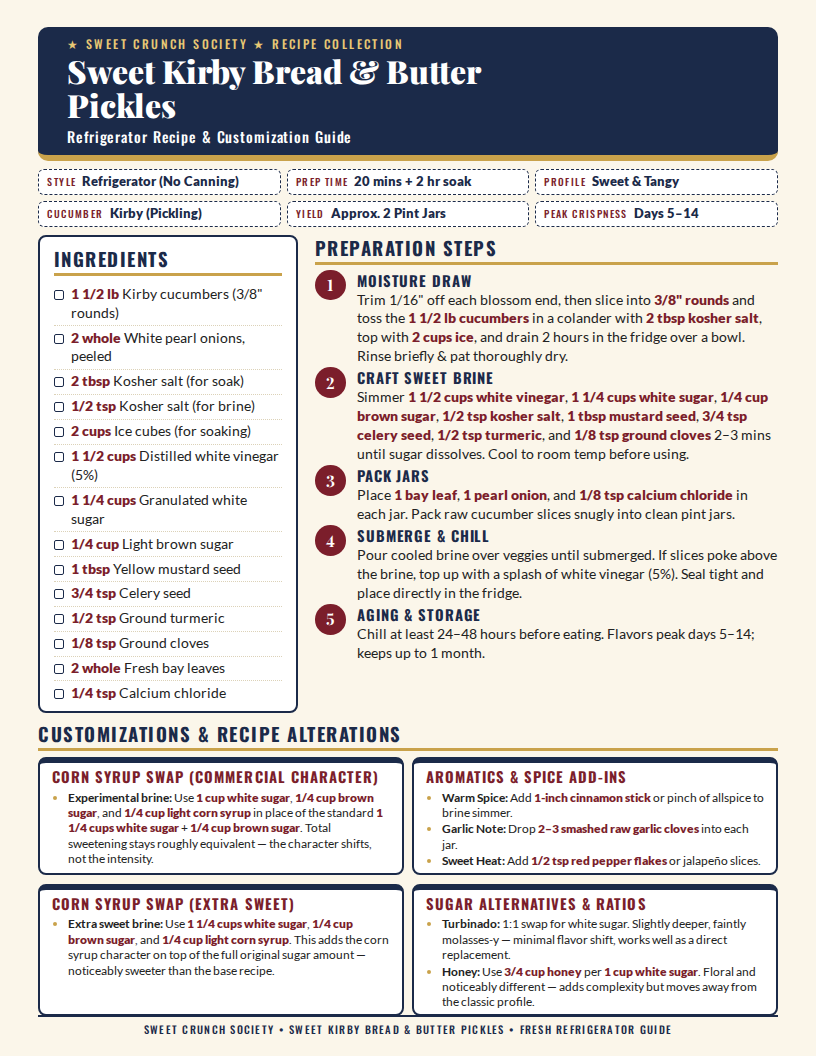
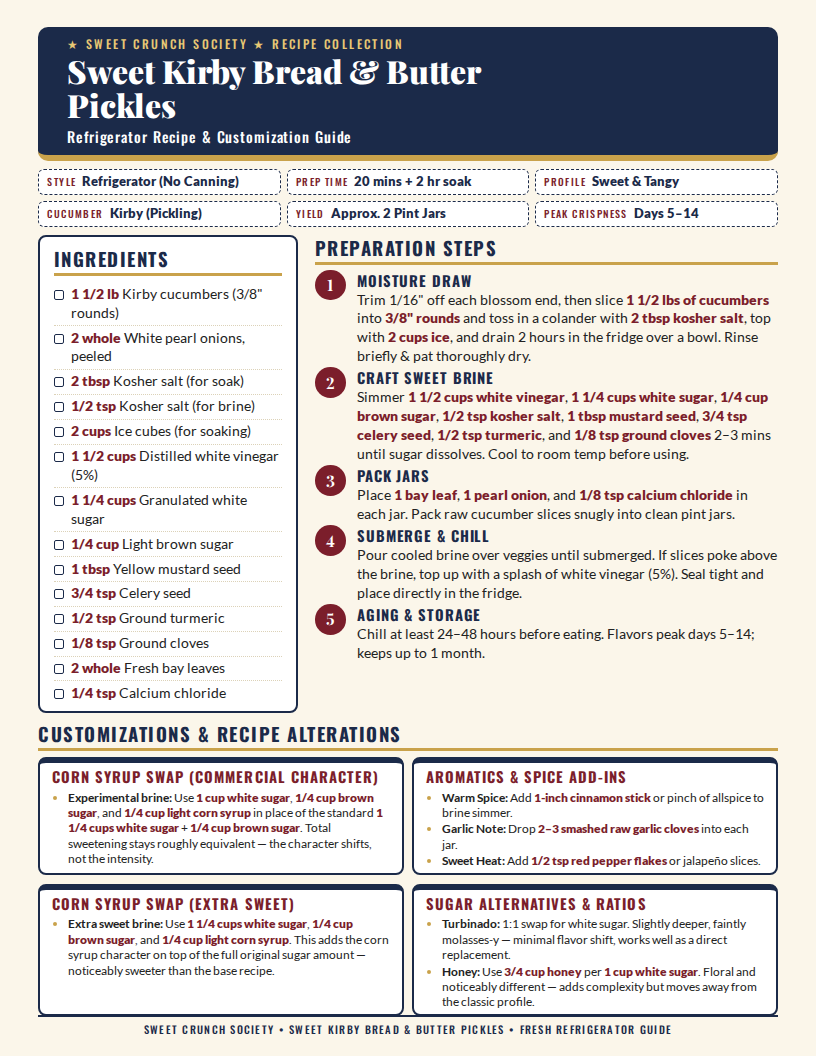
docs: put cucumber amount before cut size in Moisture Draw step
Reworded step 1 to "slice 1 1/2 lbs of cucumbers into 3/8" rounds" so the
amount is stated first, followed by the cut size. Regenerated
docs/preview.png to match; layout still fits the letter sheet.

Changed region(s): [[0.4289, 0.2812, 0.9498, 0.3438]]

diff --git a/index.html b/index.html
@@ -162,7 +162,7 @@
       <section aria-labelledby="prep">
         <h2 class="sec" id="prep">Preparation Steps</h2>
         <ol class="steps">
-          <li><b>Moisture Draw</b>Trim 1/16" off each blossom end, then slice into <strong>3/8" rounds</strong> and toss the <strong>1 1/2 lb cucumbers</strong> in a colander with <strong>2 tbsp kosher salt</strong>, top with <strong>2 cups ice</strong>, and drain 2 hours in the fridge over a bowl. Rinse briefly &amp; pat thoroughly dry.</li>
+          <li><b>Moisture Draw</b>Trim 1/16" off each blossom end, then slice <strong>1 1/2 lbs of cucumbers</strong> into <strong>3/8" rounds</strong> and toss in a colander with <strong>2 tbsp kosher salt</strong>, top with <strong>2 cups ice</strong>, and drain 2 hours in the fridge over a bowl. Rinse briefly &amp; pat thoroughly dry.</li>
           <li><b>Craft Sweet Brine</b>Simmer <strong>1 1/2 cups white vinegar</strong>, <strong>1 1/4 cups white sugar</strong>, <strong>1/4 cup brown sugar</strong>, <strong>1/2 tsp kosher salt</strong>, <strong>1 tbsp mustard seed</strong>, <strong>3/4 tsp celery seed</strong>, <strong>1/2 tsp turmeric</strong>, and <strong>1/8 tsp ground cloves</strong> 2–3 mins until sugar dissolves. Cool to room temp before using.</li>
           <li><b>Pack Jars</b>Place <strong>1 bay leaf</strong>, <strong>1 pearl onion</strong>, and <strong>1/8 tsp calcium chloride</strong> in each jar. Pack raw cucumber slices snugly into clean pint jars.</li>
           <li><b>Submerge &amp; Chill</b>Pour cooled brine over veggies until submerged. If slices poke above the brine, top up with a splash of white vinegar (5%). Seal tight and place directly in the fridge.</li>
